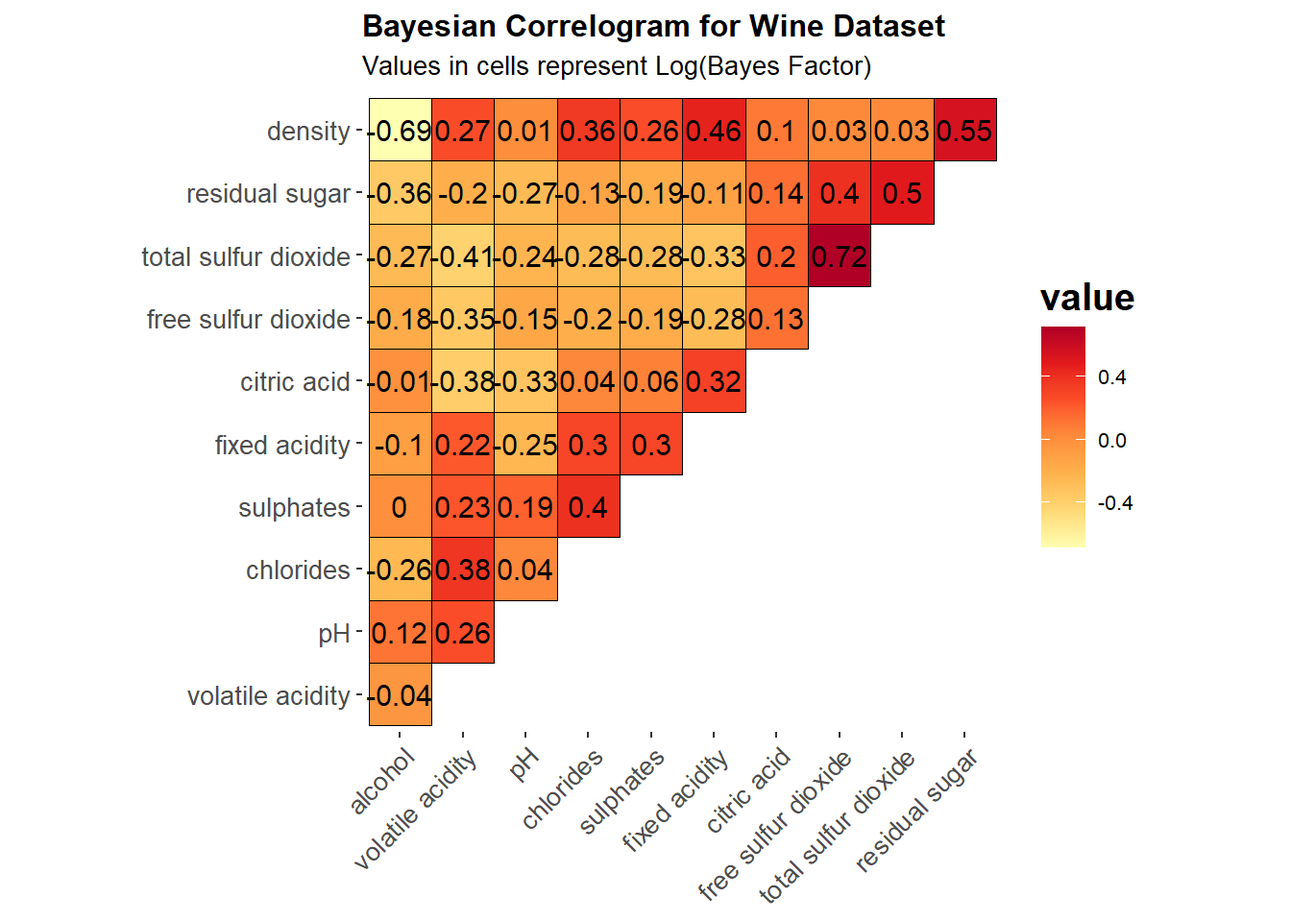
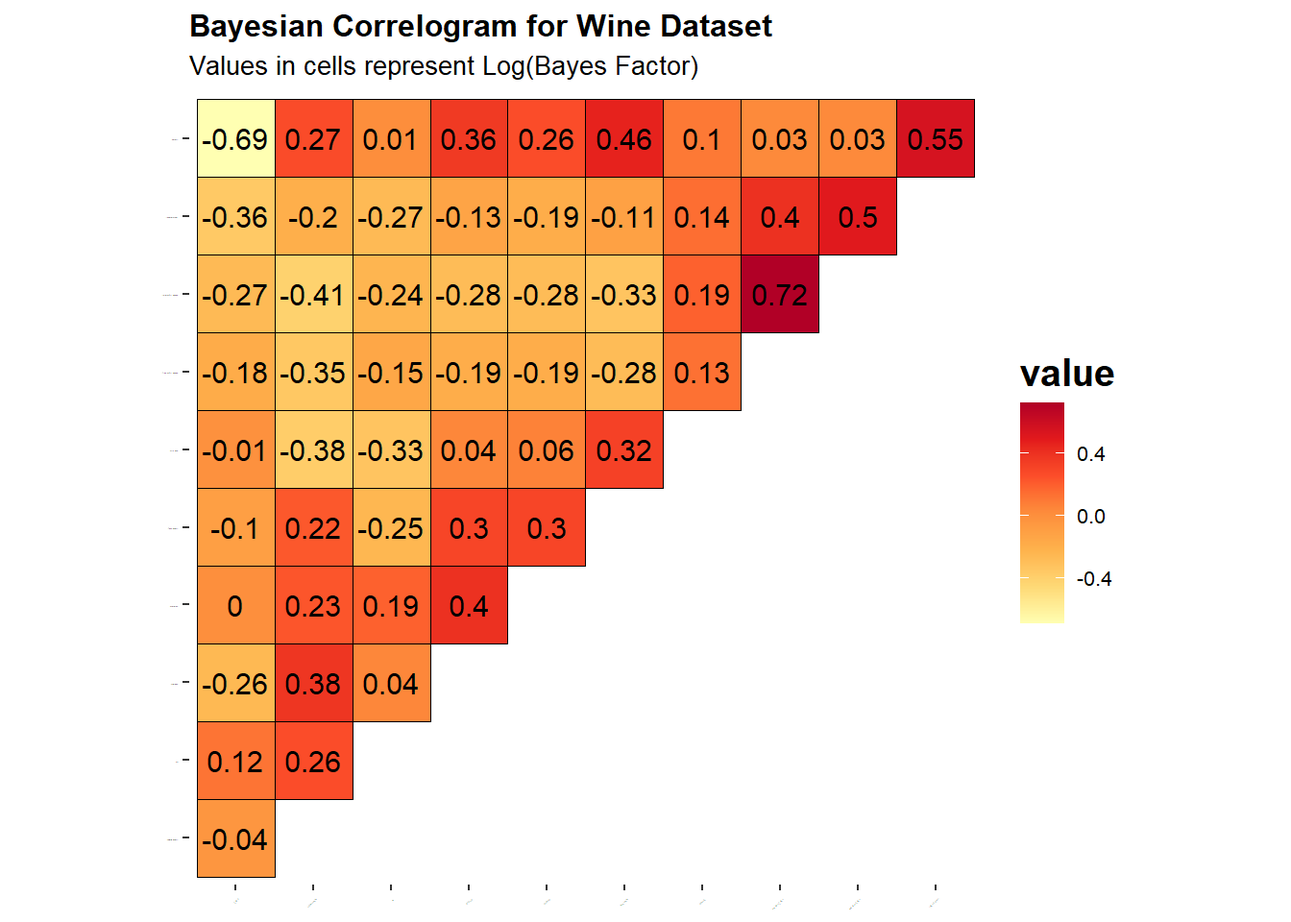
5B

diff --git a/_site/Hands-On_Ex/Hands-on_Ex05/Hands-on_Ex05B.html b/_site/Hands-On_Ex/Hands-on_Ex05/Hands-on_Ex05B.html
@@ -255,6 +255,15 @@ window.Quarto = {
   <li><a href="#including-with-correlation-coefficients" id="toc-including-with-correlation-coefficients" class="nav-link" data-scroll-target="#including-with-correlation-coefficients">Including with correlation coefficients</a></li>
   <li><a href="#visualising-correlation-matrix-ggcormat" id="toc-visualising-correlation-matrix-ggcormat" class="nav-link" data-scroll-target="#visualising-correlation-matrix-ggcormat">Visualising Correlation Matrix: ggcormat()</a></li>
   <li><a href="#the-basic-plot" id="toc-the-basic-plot" class="nav-link" data-scroll-target="#the-basic-plot">The basic plot</a></li>
+  <li><a href="#building-multiple-plots" id="toc-building-multiple-plots" class="nav-link" data-scroll-target="#building-multiple-plots">Building multiple plots</a></li>
+  <li><a href="#visualising-correlation-matrix-using-corrplot-package" id="toc-visualising-correlation-matrix-using-corrplot-package" class="nav-link" data-scroll-target="#visualising-correlation-matrix-using-corrplot-package">Visualising Correlation Matrix using corrplot Package</a></li>
+  <li><a href="#before-we-can-plot-a-corrgram-using-corrplot-we-need-to-compute-the-correlation-matrix-of-wine-data-frame." id="toc-before-we-can-plot-a-corrgram-using-corrplot-we-need-to-compute-the-correlation-matrix-of-wine-data-frame." class="nav-link" data-scroll-target="#before-we-can-plot-a-corrgram-using-corrplot-we-need-to-compute-the-correlation-matrix-of-wine-data-frame.">Before we can plot a corrgram using corrplot(), we need to compute the correlation matrix of wine data frame.</a></li>
+  <li><a href="#working-with-visual-geometrics" id="toc-working-with-visual-geometrics" class="nav-link" data-scroll-target="#working-with-visual-geometrics">Working with visual geometrics</a></li>
+  <li><a href="#working-with-layout" id="toc-working-with-layout" class="nav-link" data-scroll-target="#working-with-layout">Working with layout</a></li>
+  <li><a href="#working-with-mixed-layout" id="toc-working-with-mixed-layout" class="nav-link" data-scroll-target="#working-with-mixed-layout">Working with mixed layout</a></li>
+  <li><a href="#combining-corrgram-with-the-significant-test" id="toc-combining-corrgram-with-the-significant-test" class="nav-link" data-scroll-target="#combining-corrgram-with-the-significant-test">Combining corrgram with the significant test</a></li>
+  <li><a href="#reorder-a-corrgram" id="toc-reorder-a-corrgram" class="nav-link" data-scroll-target="#reorder-a-corrgram">Reorder a corrgram</a></li>
+  <li><a href="#reordering-a-correlation-matrix-using-hclust" id="toc-reordering-a-correlation-matrix-using-hclust" class="nav-link" data-scroll-target="#reordering-a-correlation-matrix-using-hclust">Reordering a correlation matrix using hclust</a></li>
   </ul></li>
   </ul>
 </nav>
@@ -461,7 +470,7 @@ Tip
 <span id="cb10-3"><a href="#cb10-3" aria-hidden="true" tabindex="-1"></a>  <span class="at">cor.vars =</span> <span class="dv">1</span><span class="sc">:</span><span class="dv">11</span>,</span>
 <span id="cb10-4"><a href="#cb10-4" aria-hidden="true" tabindex="-1"></a>  <span class="at">ggcorrplot.args =</span> <span class="fu">list</span>(<span class="at">outline.color =</span> <span class="st">"black"</span>, </span>
 <span id="cb10-5"><a href="#cb10-5" aria-hidden="true" tabindex="-1"></a>                         <span class="at">hc.order =</span> <span class="cn">TRUE</span>,</span>
-<span id="cb10-6"><a href="#cb10-6" aria-hidden="true" tabindex="-1"></a>                         <span class="at">tl.cex =</span> <span class="dv">10</span>),</span>
+<span id="cb10-6"><a href="#cb10-6" aria-hidden="true" tabindex="-1"></a>                         <span class="at">tl.cex =</span> <span class="fl">0.7</span>),</span>
 <span id="cb10-7"><a href="#cb10-7" aria-hidden="true" tabindex="-1"></a>  <span class="at">title    =</span> <span class="st">"Correlogram for wine dataset"</span>,</span>
 <span id="cb10-8"><a href="#cb10-8" aria-hidden="true" tabindex="-1"></a>  <span class="at">subtitle =</span> <span class="st">"Four pairs are not significant at p &lt; 0.05"</span></span>
 <span id="cb10-9"><a href="#cb10-9" aria-hidden="true" tabindex="-1"></a>)</span></code></pre></div><button title="Copy to Clipboard" class="code-copy-button"><i class="bi"></i></button></div>
@@ -490,8 +499,12 @@ Note
 </div>
 </div>
 <div class="callout-body-container callout-body">
-<p>hc.order = True refers to using hierarchical clustering to put similar variables together while tl.cex = 10: Adjusts the text label size for the variable names so they are readable even if the matrix is large.</p>
-<p>The current default uses p value, a bayesian approach can also be used by changing type = ‘bayes’</p>
+<ul>
+<li><p>hc.order = True refers to using hierarchical clustering to put similar variables together while tl.cex = 10: Adjusts the text label size for the variable names so they are readable even if the matrix is large.</p></li>
+<li><p>The current default uses p value, a bayesian approach can also be used by changing type = ‘bayes’</p></li>
+</ul>
+</div>
+</div>
 <div class="cell">
 <div class="code-copy-outer-scaffold"><div class="sourceCode cell-code" id="cb11"><pre class="sourceCode r code-with-copy"><code class="sourceCode r"><span id="cb11-1"><a href="#cb11-1" aria-hidden="true" tabindex="-1"></a><span class="co">#Changing the color to better show that this is different from the above plots</span></span>
 <span id="cb11-2"><a href="#cb11-2" aria-hidden="true" tabindex="-1"></a></span>
@@ -501,7 +514,7 @@ Note
 <span id="cb11-6"><a href="#cb11-6" aria-hidden="true" tabindex="-1"></a>  <span class="at">type =</span> <span class="st">"bayes"</span>,</span>
 <span id="cb11-7"><a href="#cb11-7" aria-hidden="true" tabindex="-1"></a>  <span class="at">ggcorrplot.args =</span> <span class="fu">list</span>(<span class="at">outline.color =</span> <span class="st">"black"</span>, </span>
 <span id="cb11-8"><a href="#cb11-8" aria-hidden="true" tabindex="-1"></a>                         <span class="at">hc.order =</span> <span class="cn">TRUE</span>,</span>
-<span id="cb11-9"><a href="#cb11-9" aria-hidden="true" tabindex="-1"></a>                         <span class="at">tl.cex =</span> <span class="dv">10</span>),</span>
+<span id="cb11-9"><a href="#cb11-9" aria-hidden="true" tabindex="-1"></a>                         <span class="at">tl.cex =</span> <span class="fl">0.7</span>),</span>
 <span id="cb11-10"><a href="#cb11-10" aria-hidden="true" tabindex="-1"></a>  <span class="at">title    =</span> <span class="st">"Bayesian Correlogram for Wine Dataset"</span>,</span>
 <span id="cb11-11"><a href="#cb11-11" aria-hidden="true" tabindex="-1"></a>  <span class="at">subtitle =</span> <span class="st">"Values in cells represent Log(Bayes Factor)"</span></span>
 <span id="cb11-12"><a href="#cb11-12" aria-hidden="true" tabindex="-1"></a>) <span class="sc">+</span> <span class="fu">scale_fill_distiller</span>(<span class="at">palette =</span> <span class="st">"YlOrRd"</span>, <span class="at">direction =</span> <span class="dv">1</span>)</span></code></pre></div><button title="Copy to Clipboard" class="code-copy-button"><i class="bi"></i></button></div>
@@ -513,44 +526,36 @@ Note
 </div>
 </div>
 </div>
-<div class="callout callout-style-default callout-note callout-titled">
-<div class="callout-header d-flex align-content-center">
-<div class="callout-icon-container">
-<i class="callout-icon"></i>
-</div>
-<div class="callout-title-container flex-fill">
-Note
-</div>
-</div>
-<div class="callout-body-container callout-body">
 <p>After switching from frequentist to bayes, none of the plot was crossed out.</p>
 <p>A quick search: While the frequentist approach suggests four pairs are non-significant, the Bayesian approach reveals that these relationships are ‘anecdotal’ (<span class="math inline">\(1 &lt; BF_{10} &lt; 3\)</span>) rather than definitively absent, providing a more nuanced view of the chemical interactions in the wine</p>
 <p>Some examples of interpretation</p>
 <p><span class="math inline">\(log_e(BF_{10})\)</span>: This is the “Log-Bayes Factor.” We use logs because Bayes Factors can become massive (e.g., 1,000,000).Positive number (e.g., 5): Strong evidence for a relationship.Negative number (e.g., -2): Evidence against a relationship (supports the null).Near 0: The data is “inconclusive” or “anecdotal.”</p>
 <p><span class="math inline">\(BF_{10} = 10\)</span>: The data is 10 times more likely under the “Relationship” model than the “No Relationship” model.</p>
-</div>
-</div>
+</section>
 <section id="building-multiple-plots" class="level2">
 <h2 class="anchored" data-anchor-id="building-multiple-plots">Building multiple plots</h2>
 <p>Since ggstasplot is an extension of ggplot2, it also supports faceting. However the feature is not available in ggcorrmat() but in the <a href="https://www.indrapatil.com/ggstatsplot/reference/grouped_ggcorrmat.html">grouped_ggcorrmat()</a> of ggstatsplot.</p>
 <div class="cell">
-<div class="code-copy-outer-scaffold"><div class="sourceCode cell-code" id="cb12"><pre class="sourceCode r code-with-copy"><code class="sourceCode r"><span id="cb12-1"><a href="#cb12-1" aria-hidden="true" tabindex="-1"></a><span class="fu">grouped_ggcorrmat</span>(</span>
-<span id="cb12-2"><a href="#cb12-2" aria-hidden="true" tabindex="-1"></a>  <span class="at">data =</span> wine,</span>
-<span id="cb12-3"><a href="#cb12-3" aria-hidden="true" tabindex="-1"></a>  <span class="at">cor.vars =</span> <span class="dv">1</span><span class="sc">:</span><span class="dv">11</span>,</span>
-<span id="cb12-4"><a href="#cb12-4" aria-hidden="true" tabindex="-1"></a>  <span class="at">grouping.var =</span> type,</span>
-<span id="cb12-5"><a href="#cb12-5" aria-hidden="true" tabindex="-1"></a>  <span class="at">type =</span> <span class="st">"robust"</span>,</span>
-<span id="cb12-6"><a href="#cb12-6" aria-hidden="true" tabindex="-1"></a>  <span class="at">p.adjust.method =</span> <span class="st">"holm"</span>,</span>
-<span id="cb12-7"><a href="#cb12-7" aria-hidden="true" tabindex="-1"></a>  <span class="at">plotgrid.args =</span> <span class="fu">list</span>(<span class="at">ncol =</span> <span class="dv">2</span>),</span>
-<span id="cb12-8"><a href="#cb12-8" aria-hidden="true" tabindex="-1"></a>  <span class="at">ggcorrplot.args =</span> <span class="fu">list</span>(<span class="at">outline.color =</span> <span class="st">"black"</span>, </span>
-<span id="cb12-9"><a href="#cb12-9" aria-hidden="true" tabindex="-1"></a>                         <span class="at">hc.order =</span> <span class="cn">TRUE</span>,</span>
-<span id="cb12-10"><a href="#cb12-10" aria-hidden="true" tabindex="-1"></a>                         <span class="at">tl.cex =</span> <span class="fl">0.7</span>),</span>
-<span id="cb12-11"><a href="#cb12-11" aria-hidden="true" tabindex="-1"></a>  <span class="at">annotation.args =</span> <span class="fu">list</span>(</span>
-<span id="cb12-12"><a href="#cb12-12" aria-hidden="true" tabindex="-1"></a>    <span class="at">tag_levels =</span> <span class="st">"a"</span>,</span>
-<span id="cb12-13"><a href="#cb12-13" aria-hidden="true" tabindex="-1"></a>    <span class="at">title =</span> <span class="st">"Correlogram for wine dataset"</span>,</span>
-<span id="cb12-14"><a href="#cb12-14" aria-hidden="true" tabindex="-1"></a>    <span class="at">subtitle =</span> <span class="st">"The measures are: alcohol, sulphates, fixed acidity, citric acid, chlorides, residual sugar, density, free sulfur dioxide and volatile acidity"</span>,</span>
-<span id="cb12-15"><a href="#cb12-15" aria-hidden="true" tabindex="-1"></a>    <span class="at">caption =</span> <span class="st">"Dataset: UCI Machine Learning Repository"</span></span>
-<span id="cb12-16"><a href="#cb12-16" aria-hidden="true" tabindex="-1"></a>  )</span>
-<span id="cb12-17"><a href="#cb12-17" aria-hidden="true" tabindex="-1"></a>)</span></code></pre></div><button title="Copy to Clipboard" class="code-copy-button"><i class="bi"></i></button></div>
+<div class="code-copy-outer-scaffold"><div class="sourceCode cell-code" id="cb12"><pre class="sourceCode r code-with-copy"><code class="sourceCode r"><span id="cb12-1"><a href="#cb12-1" aria-hidden="true" tabindex="-1"></a><span class="co">#| fig-width: 12</span></span>
+<span id="cb12-2"><a href="#cb12-2" aria-hidden="true" tabindex="-1"></a><span class="co">#| fig-height: 16</span></span>
+<span id="cb12-3"><a href="#cb12-3" aria-hidden="true" tabindex="-1"></a><span class="co">#| out-width: "100%"</span></span>
+<span id="cb12-4"><a href="#cb12-4" aria-hidden="true" tabindex="-1"></a><span class="fu">grouped_ggcorrmat</span>(</span>
+<span id="cb12-5"><a href="#cb12-5" aria-hidden="true" tabindex="-1"></a>  <span class="at">data =</span> wine,</span>
+<span id="cb12-6"><a href="#cb12-6" aria-hidden="true" tabindex="-1"></a>  <span class="at">cor.vars =</span> <span class="dv">1</span><span class="sc">:</span><span class="dv">11</span>,</span>
+<span id="cb12-7"><a href="#cb12-7" aria-hidden="true" tabindex="-1"></a>  <span class="at">grouping.var =</span> type,</span>
+<span id="cb12-8"><a href="#cb12-8" aria-hidden="true" tabindex="-1"></a>  <span class="at">type =</span> <span class="st">"robust"</span>,</span>
+<span id="cb12-9"><a href="#cb12-9" aria-hidden="true" tabindex="-1"></a>  <span class="at">p.adjust.method =</span> <span class="st">"holm"</span>,</span>
+<span id="cb12-10"><a href="#cb12-10" aria-hidden="true" tabindex="-1"></a>  <span class="at">plotgrid.args =</span> <span class="fu">list</span>(<span class="at">ncol =</span> <span class="dv">2</span>),</span>
+<span id="cb12-11"><a href="#cb12-11" aria-hidden="true" tabindex="-1"></a>  <span class="at">ggcorrplot.args =</span> <span class="fu">list</span>(<span class="at">outline.color =</span> <span class="st">"black"</span>, </span>
+<span id="cb12-12"><a href="#cb12-12" aria-hidden="true" tabindex="-1"></a>                         <span class="at">hc.order =</span> <span class="cn">TRUE</span>,</span>
+<span id="cb12-13"><a href="#cb12-13" aria-hidden="true" tabindex="-1"></a>                         <span class="at">tl.cex =</span> <span class="fl">0.7</span>),</span>
+<span id="cb12-14"><a href="#cb12-14" aria-hidden="true" tabindex="-1"></a>  <span class="at">annotation.args =</span> <span class="fu">list</span>(</span>
+<span id="cb12-15"><a href="#cb12-15" aria-hidden="true" tabindex="-1"></a>    <span class="at">tag_levels =</span> <span class="st">"a"</span>,</span>
+<span id="cb12-16"><a href="#cb12-16" aria-hidden="true" tabindex="-1"></a>    <span class="at">title =</span> <span class="st">"Correlogram for wine dataset"</span>,</span>
+<span id="cb12-17"><a href="#cb12-17" aria-hidden="true" tabindex="-1"></a>    <span class="at">subtitle =</span> <span class="st">"The measures are: alcohol, sulphates, fixed acidity, citric acid, chlorides, residual sugar, density, free sulfur dioxide and volatile acidity"</span>,</span>
+<span id="cb12-18"><a href="#cb12-18" aria-hidden="true" tabindex="-1"></a>    <span class="at">caption =</span> <span class="st">"Dataset: UCI Machine Learning Repository"</span></span>
+<span id="cb12-19"><a href="#cb12-19" aria-hidden="true" tabindex="-1"></a>  )</span>
+<span id="cb12-20"><a href="#cb12-20" aria-hidden="true" tabindex="-1"></a>)</span></code></pre></div><button title="Copy to Clipboard" class="code-copy-button"><i class="bi"></i></button></div>
 <div class="cell-output-display">
 <div>
 <figure class="figure">
@@ -559,11 +564,236 @@ Note
 </div>
 </div>
 </div>
-
-
+<p>Things to learn from the code chunk above:</p>
+<ul>
+<li>to build a facet plot, the only argument needed is grouping.var.</li>
+<li>Behind group_ggcorrmat(), patchwork package is used to create the multiplot. plotgrid.args argument provides a list of additional arguments passed to patchwork::wrap_plots, except for guides argument which is already separately specified earlier.</li>
+<li>Likewise, annotation.args argument is calling plot annotation arguments of patchwork package.</li>
+</ul>
+</section>
+<section id="visualising-correlation-matrix-using-corrplot-package" class="level2">
+<h2 class="anchored" data-anchor-id="visualising-correlation-matrix-using-corrplot-package">Visualising Correlation Matrix using corrplot Package</h2>
+<p>Here is an introduction to An Introduction to <a href="https://cran.r-project.org/web/packages/corrplot/vignettes/corrplot-intro.html">corrplot Package</a></p>
+<p>This package is amazing !</p>
+<div class="callout callout-style-default callout-tip callout-titled">
+<div class="callout-header d-flex align-content-center">
+<div class="callout-icon-container">
+<i class="callout-icon"></i>
+</div>
+<div class="callout-title-container flex-fill">
+Tip
+</div>
+</div>
+<div class="callout-body-container callout-body">
+<p>Did you know <a href="https://pypi.org/project/ggcorrplot/#doc">corrplot</a> is also available in python. Kudos to the team for exporting this amazing package to python too But its still lacks the flexibility that is available in R.</p>
+<p>Incidentally found the link to <a href="https://altair-viz.github.io/gallery/isotype_emoji.html">Altair</a>. I just need to find the equivalent for R for this !</p>
+</div>
+</div>
+</section>
+<section id="before-we-can-plot-a-corrgram-using-corrplot-we-need-to-compute-the-correlation-matrix-of-wine-data-frame." class="level2">
+<h2 class="anchored" data-anchor-id="before-we-can-plot-a-corrgram-using-corrplot-we-need-to-compute-the-correlation-matrix-of-wine-data-frame.">Before we can plot a corrgram using corrplot(), we need to compute the correlation matrix of wine data frame.</h2>
+<p>In the code chunk below, cor() of R Stats is used to compute the correlation matrix of wine data frame.</p>
+<div class="cell">
+<div class="code-copy-outer-scaffold"><div class="sourceCode cell-code" id="cb13"><pre class="sourceCode r code-with-copy"><code class="sourceCode r"><span id="cb13-1"><a href="#cb13-1" aria-hidden="true" tabindex="-1"></a>wine.cor <span class="ot">&lt;-</span> <span class="fu">cor</span>(wine[, <span class="dv">1</span><span class="sc">:</span><span class="dv">11</span>])</span>
+<span id="cb13-2"><a href="#cb13-2" aria-hidden="true" tabindex="-1"></a><span class="fu">corrplot</span>(wine.cor)</span></code></pre></div><button title="Copy to Clipboard" class="code-copy-button"><i class="bi"></i></button></div>
+<div class="cell-output-display">
+<div>
+<figure class="figure">
+<p><img src="Hands-on_Ex05B_files/figure-html/unnamed-chunk-12-1.png" class="img-fluid figure-img" width="672"></p>
+</figure>
+</div>
+</div>
+</div>
+<p>Notice that the default visual object used to plot the corrgram is circle. The default layout of the corrgram is a symmetric matrix. The default colour scheme is diverging blue-red. Blue colours are used to represent pair variables with positive correlation coefficients and red colours are used to represent pair variables with negative correlation coefficients. The intensity of the colour or also know as saturation is used to represent the strength of the correlation coefficient. Darker colours indicate relatively stronger linear relationship between the paired variables. On the other hand, lighter colours indicates relatively weaker linear relationship.</p>
+</section>
+<section id="working-with-visual-geometrics" class="level2">
+<h2 class="anchored" data-anchor-id="working-with-visual-geometrics">Working with visual geometrics</h2>
+<p>In corrplot package, there are seven visual geometrics (parameter method) can be used to encode the attribute values. They are: circle, square, ellipse, number, shade, color and pie. The default is circle. As shown in the previous section, the default visual geometric of corrplot matrix is circle. However, this default setting can be changed by using the method argument as shown in the code chunk below</p>
+<div class="tabset-margin-container"></div><div class="panel-tabset">
+<ul class="nav nav-tabs" role="tablist"><li class="nav-item" role="presentation"><a class="nav-link active" id="tabset-1-1-tab" data-bs-toggle="tab" data-bs-target="#tabset-1-1" role="tab" aria-controls="tabset-1-1" aria-selected="true" href="">ellipse</a></li><li class="nav-item" role="presentation"><a class="nav-link" id="tabset-1-2-tab" data-bs-toggle="tab" data-bs-target="#tabset-1-2" role="tab" aria-controls="tabset-1-2" aria-selected="false" href="">hclust</a></li><li class="nav-item" role="presentation"><a class="nav-link" id="tabset-1-3-tab" data-bs-toggle="tab" data-bs-target="#tabset-1-3" role="tab" aria-controls="tabset-1-3" aria-selected="false" href="">hist mixed</a></li></ul>
+<div class="tab-content">
+<div id="tabset-1-1" class="tab-pane active" role="tabpanel" aria-labelledby="tabset-1-1-tab">
+<div class="cell">
+<div class="code-copy-outer-scaffold"><div class="sourceCode cell-code" id="cb14"><pre class="sourceCode r code-with-copy"><code class="sourceCode r"><span id="cb14-1"><a href="#cb14-1" aria-hidden="true" tabindex="-1"></a><span class="fu">corrplot</span>(wine.cor, </span>
+<span id="cb14-2"><a href="#cb14-2" aria-hidden="true" tabindex="-1"></a>         <span class="at">method =</span> <span class="st">"ellipse"</span>) </span></code></pre></div><button title="Copy to Clipboard" class="code-copy-button"><i class="bi"></i></button></div>
+<div class="cell-output-display">
+<div>
+<figure class="figure">
+<p><img src="Hands-on_Ex05B_files/figure-html/unnamed-chunk-13-1.png" class="img-fluid figure-img" width="672"></p>
+</figure>
+</div>
+</div>
+</div>
+<section id="square" class="level3">
+<h3 class="anchored" data-anchor-id="square">square</h3>
+<div class="cell">
+<div class="code-copy-outer-scaffold"><div class="sourceCode cell-code" id="cb15"><pre class="sourceCode r code-with-copy"><code class="sourceCode r"><span id="cb15-1"><a href="#cb15-1" aria-hidden="true" tabindex="-1"></a><span class="fu">corrplot</span>(wine.cor, </span>
+<span id="cb15-2"><a href="#cb15-2" aria-hidden="true" tabindex="-1"></a>         <span class="at">method =</span> <span class="st">"square"</span>) </span></code></pre></div><button title="Copy to Clipboard" class="code-copy-button"><i class="bi"></i></button></div>
+<div class="cell-output-display">
+<div>
+<figure class="figure">
+<p><img src="Hands-on_Ex05B_files/figure-html/unnamed-chunk-14-1.png" class="img-fluid figure-img" width="672"></p>
+</figure>
+</div>
+</div>
+</div>
 </section>
 </div>
+<div id="tabset-1-2" class="tab-pane" role="tabpanel" aria-labelledby="tabset-1-2-tab">
+<div class="cell">
+<div class="code-copy-outer-scaffold"><div class="sourceCode cell-code" id="cb16"><pre class="sourceCode r code-with-copy"><code class="sourceCode r"><span id="cb16-1"><a href="#cb16-1" aria-hidden="true" tabindex="-1"></a><span class="do">## If using 'hclust', corrplot() can draw rectangles around the plot of correlation matrix based on the results of hierarchical clustering.</span></span>
+<span id="cb16-2"><a href="#cb16-2" aria-hidden="true" tabindex="-1"></a><span class="do">## FIX: Use corrplot() function, not the variable name</span></span>
+<span id="cb16-3"><a href="#cb16-3" aria-hidden="true" tabindex="-1"></a><span class="fu">corrplot</span>(wine.cor, <span class="at">order =</span> <span class="st">'hclust'</span>, <span class="at">addrect =</span> <span class="dv">2</span>)</span></code></pre></div><button title="Copy to Clipboard" class="code-copy-button"><i class="bi"></i></button></div>
+<div class="cell-output-display">
+<div>
+<figure class="figure">
+<p><img src="Hands-on_Ex05B_files/figure-html/unnamed-chunk-15-1.png" class="img-fluid figure-img" width="672"></p>
+</figure>
 </div>
+</div>
+</div>
+</div>
+<div id="tabset-1-3" class="tab-pane" role="tabpanel" aria-labelledby="tabset-1-3-tab">
+<div class="cell">
+<div class="code-copy-outer-scaffold"><div class="sourceCode cell-code" id="cb17"><pre class="sourceCode r code-with-copy"><code class="sourceCode r"><span id="cb17-1"><a href="#cb17-1" aria-hidden="true" tabindex="-1"></a><span class="co"># 3. Create the Mixed Correlogram</span></span>
+<span id="cb17-2"><a href="#cb17-2" aria-hidden="true" tabindex="-1"></a><span class="fu">corrplot.mixed</span>(wine.cor, </span>
+<span id="cb17-3"><a href="#cb17-3" aria-hidden="true" tabindex="-1"></a>               <span class="at">lower =</span> <span class="st">'shade'</span>, </span>
+<span id="cb17-4"><a href="#cb17-4" aria-hidden="true" tabindex="-1"></a>               <span class="at">upper =</span> <span class="st">'pie'</span>, </span>
+<span id="cb17-5"><a href="#cb17-5" aria-hidden="true" tabindex="-1"></a>               <span class="at">order =</span> <span class="st">'hclust'</span>,</span>
+<span id="cb17-6"><a href="#cb17-6" aria-hidden="true" tabindex="-1"></a>               <span class="at">tl.col =</span> <span class="st">"black"</span>, </span>
+<span id="cb17-7"><a href="#cb17-7" aria-hidden="true" tabindex="-1"></a>               <span class="at">tl.cex =</span> <span class="fl">0.7</span>,</span>
+<span id="cb17-8"><a href="#cb17-8" aria-hidden="true" tabindex="-1"></a>               <span class="at">addrect =</span> <span class="dv">3</span>)     <span class="co"># Optional: Draws boxes around hclust groups</span></span></code></pre></div><button title="Copy to Clipboard" class="code-copy-button"><i class="bi"></i></button></div>
+<div class="cell-output-display">
+<div>
+<figure class="figure">
+<p><img src="Hands-on_Ex05B_files/figure-html/unnamed-chunk-16-1.png" class="img-fluid figure-img" width="672"></p>
+</figure>
+</div>
+</div>
+</div>
+</div>
+</div>
+</div>
+</section>
+<section id="working-with-layout" class="level2">
+<h2 class="anchored" data-anchor-id="working-with-layout">Working with layout</h2>
+<div class="cell">
+<div class="code-copy-outer-scaffold"><div class="sourceCode cell-code" id="cb18"><pre class="sourceCode r code-with-copy"><code class="sourceCode r"><span id="cb18-1"><a href="#cb18-1" aria-hidden="true" tabindex="-1"></a><span class="fu">corrplot</span>(wine.cor, </span>
+<span id="cb18-2"><a href="#cb18-2" aria-hidden="true" tabindex="-1"></a>         <span class="at">method =</span> <span class="st">"ellipse"</span>, </span>
+<span id="cb18-3"><a href="#cb18-3" aria-hidden="true" tabindex="-1"></a>         <span class="at">type=</span><span class="st">"lower"</span>)</span></code></pre></div><button title="Copy to Clipboard" class="code-copy-button"><i class="bi"></i></button></div>
+<div class="cell-output-display">
+<div>
+<figure class="figure">
+<p><img src="Hands-on_Ex05B_files/figure-html/unnamed-chunk-17-1.png" class="img-fluid figure-img" width="672"></p>
+</figure>
+</div>
+</div>
+</div>
+<p>The default layout of the corrgram can be further customised. For example, arguments diag and tl.col are used to turn off the diagonal cells and to change the axis text label colour to black colour respectively as shown in the code chunk and figure below</p>
+<div class="cell">
+<div class="code-copy-outer-scaffold"><div class="sourceCode cell-code" id="cb19"><pre class="sourceCode r code-with-copy"><code class="sourceCode r"><span id="cb19-1"><a href="#cb19-1" aria-hidden="true" tabindex="-1"></a><span class="fu">corrplot</span>(wine.cor, </span>
+<span id="cb19-2"><a href="#cb19-2" aria-hidden="true" tabindex="-1"></a>         <span class="at">method =</span> <span class="st">"ellipse"</span>, </span>
+<span id="cb19-3"><a href="#cb19-3" aria-hidden="true" tabindex="-1"></a>         <span class="at">type=</span><span class="st">"lower"</span>,</span>
+<span id="cb19-4"><a href="#cb19-4" aria-hidden="true" tabindex="-1"></a>         <span class="at">diag =</span> <span class="cn">FALSE</span>,</span>
+<span id="cb19-5"><a href="#cb19-5" aria-hidden="true" tabindex="-1"></a>         <span class="at">tl.col =</span> <span class="st">"black"</span>)</span></code></pre></div><button title="Copy to Clipboard" class="code-copy-button"><i class="bi"></i></button></div>
+<div class="cell-output-display">
+<div>
+<figure class="figure">
+<p><img src="Hands-on_Ex05B_files/figure-html/unnamed-chunk-18-1.png" class="img-fluid figure-img" width="672"></p>
+</figure>
+</div>
+</div>
+</div>
+</section>
+<section id="working-with-mixed-layout" class="level2">
+<h2 class="anchored" data-anchor-id="working-with-mixed-layout">Working with mixed layout</h2>
+<p>With corrplot package, it is possible to design corrgram with mixed visual matrix of one half and numerical matrix on the other half. In order to create a coorgram with mixed layout, the corrplot.mixed(), a wrapped function for mixed visualisation style will be used.</p>
+<p>Figure below shows a mixed layout corrgram plotted using wine quality data.</p>
+<div class="cell">
+<div class="code-copy-outer-scaffold"><div class="sourceCode cell-code" id="cb20"><pre class="sourceCode r code-with-copy"><code class="sourceCode r"><span id="cb20-1"><a href="#cb20-1" aria-hidden="true" tabindex="-1"></a><span class="fu">corrplot.mixed</span>(wine.cor, </span>
+<span id="cb20-2"><a href="#cb20-2" aria-hidden="true" tabindex="-1"></a>               <span class="at">lower =</span> <span class="st">"ellipse"</span>, </span>
+<span id="cb20-3"><a href="#cb20-3" aria-hidden="true" tabindex="-1"></a>               <span class="at">upper =</span> <span class="st">"number"</span>,</span>
+<span id="cb20-4"><a href="#cb20-4" aria-hidden="true" tabindex="-1"></a>               <span class="at">tl.pos =</span> <span class="st">"lt"</span>,</span>
+<span id="cb20-5"><a href="#cb20-5" aria-hidden="true" tabindex="-1"></a>               <span class="at">diag =</span> <span class="st">"l"</span>,</span>
+<span id="cb20-6"><a href="#cb20-6" aria-hidden="true" tabindex="-1"></a>               <span class="at">tl.col =</span> <span class="st">"black"</span>)</span></code></pre></div><button title="Copy to Clipboard" class="code-copy-button"><i class="bi"></i></button></div>
+<div class="cell-output-display">
+<div>
+<figure class="figure">
+<p><img src="Hands-on_Ex05B_files/figure-html/unnamed-chunk-19-1.png" class="img-fluid figure-img" width="672"></p>
+</figure>
+</div>
+</div>
+</div>
+<p>Notice that argument lower and upper are used to define the visualisation method used. In this case ellipse is used to map the lower half of the corrgram and numerical matrix (i.e.&nbsp;number) is used to map the upper half of the corrgram. The argument tl.pos, on the other, is used to specify the placement of the axis label. Lastly, the diag argument is used to specify the glyph on the principal diagonal of the corrgram.</p>
+</section>
+<section id="combining-corrgram-with-the-significant-test" class="level2">
+<h2 class="anchored" data-anchor-id="combining-corrgram-with-the-significant-test">Combining corrgram with the significant test</h2>
+<p>In statistical analysis, we are also interested to know which pair of variables their correlation coefficients are statistically significant.</p>
+<p>Figure below shows a corrgram combined with the significant test. The corrgram reveals that not all correlation pairs are statistically significant. For example the correlation between total sulfur dioxide and free surfur dioxide is statistically significant at significant level of 0.1 but not the pair between total sulfur dioxide and citric acid.</p>
+<p>With corrplot package, we can use the cor.mtest() to compute the p-values and confidence interval for each pair of variables.</p>
+<div class="cell">
+<div class="code-copy-outer-scaffold"><div class="sourceCode cell-code" id="cb21"><pre class="sourceCode r code-with-copy"><code class="sourceCode r"><span id="cb21-1"><a href="#cb21-1" aria-hidden="true" tabindex="-1"></a>wine.sig <span class="ot">=</span> <span class="fu">cor.mtest</span>(wine[, <span class="dv">1</span><span class="sc">:</span><span class="dv">11</span>], <span class="at">conf.level =</span> .<span class="dv">95</span>)</span></code></pre></div><button title="Copy to Clipboard" class="code-copy-button"><i class="bi"></i></button></div>
+</div>
+<p>We can then use the p.mat argument of corrplot function as shown in the code chunk below.</p>
+<div class="cell">
+<div class="code-copy-outer-scaffold"><div class="sourceCode cell-code" id="cb22"><pre class="sourceCode r code-with-copy"><code class="sourceCode r"><span id="cb22-1"><a href="#cb22-1" aria-hidden="true" tabindex="-1"></a><span class="fu">corrplot</span>(wine.cor,</span>
+<span id="cb22-2"><a href="#cb22-2" aria-hidden="true" tabindex="-1"></a>         <span class="at">method =</span> <span class="st">"number"</span>,</span>
+<span id="cb22-3"><a href="#cb22-3" aria-hidden="true" tabindex="-1"></a>         <span class="at">type =</span> <span class="st">"lower"</span>,</span>
+<span id="cb22-4"><a href="#cb22-4" aria-hidden="true" tabindex="-1"></a>         <span class="at">diag =</span> <span class="cn">FALSE</span>,</span>
+<span id="cb22-5"><a href="#cb22-5" aria-hidden="true" tabindex="-1"></a>         <span class="at">tl.col =</span> <span class="st">"black"</span>,</span>
+<span id="cb22-6"><a href="#cb22-6" aria-hidden="true" tabindex="-1"></a>         <span class="at">tl.srt =</span> <span class="dv">45</span>,</span>
+<span id="cb22-7"><a href="#cb22-7" aria-hidden="true" tabindex="-1"></a>         <span class="at">p.mat =</span> wine.sig<span class="sc">$</span>p,</span>
+<span id="cb22-8"><a href="#cb22-8" aria-hidden="true" tabindex="-1"></a>         <span class="at">sig.level =</span> .<span class="dv">05</span>)</span></code></pre></div><button title="Copy to Clipboard" class="code-copy-button"><i class="bi"></i></button></div>
+<div class="cell-output-display">
+<div>
+<figure class="figure">
+<p><img src="Hands-on_Ex05B_files/figure-html/unnamed-chunk-21-1.png" class="img-fluid figure-img" width="672"></p>
+</figure>
+</div>
+</div>
+</div>
+</section>
+<section id="reorder-a-corrgram" class="level2">
+<h2 class="anchored" data-anchor-id="reorder-a-corrgram">Reorder a corrgram</h2>
+<p>Matrix reorder is very important for mining the hiden structure and pattern in a corrgram. By default, the order of attributes of a corrgram is sorted according to the correlation matrix (i.e.&nbsp;“original”). The default setting can be over-write by using the order argument of corrplot(). Currently, corrplot package support four sorting methods, they are:</p>
+<p>“AOE” is for the angular order of the eigenvectors. See Michael Friendly (2002) for details. “FPC” for the first principal component order. “hclust” for hierarchical clustering order, and “hclust.method” for the agglomeration method to be used. “hclust.method” should be one of “ward”, “single”, “complete”, “average”, “mcquitty”, “median” or “centroid”. “alphabet” for alphabetical order. “AOE”, “FPC”, “hclust”, “alphabet”. More algorithms can be found in seriation package.</p>
+<div class="cell">
+<div class="code-copy-outer-scaffold"><div class="sourceCode cell-code" id="cb23"><pre class="sourceCode r code-with-copy"><code class="sourceCode r"><span id="cb23-1"><a href="#cb23-1" aria-hidden="true" tabindex="-1"></a><span class="fu">corrplot.mixed</span>(wine.cor, </span>
+<span id="cb23-2"><a href="#cb23-2" aria-hidden="true" tabindex="-1"></a>               <span class="at">lower =</span> <span class="st">"ellipse"</span>, </span>
+<span id="cb23-3"><a href="#cb23-3" aria-hidden="true" tabindex="-1"></a>               <span class="at">upper =</span> <span class="st">"number"</span>,</span>
+<span id="cb23-4"><a href="#cb23-4" aria-hidden="true" tabindex="-1"></a>               <span class="at">tl.pos =</span> <span class="st">"lt"</span>,</span>
+<span id="cb23-5"><a href="#cb23-5" aria-hidden="true" tabindex="-1"></a>               <span class="at">diag =</span> <span class="st">"l"</span>,</span>
+<span id="cb23-6"><a href="#cb23-6" aria-hidden="true" tabindex="-1"></a>               <span class="at">order=</span><span class="st">"AOE"</span>,</span>
+<span id="cb23-7"><a href="#cb23-7" aria-hidden="true" tabindex="-1"></a>               <span class="at">tl.col =</span> <span class="st">"black"</span>)</span></code></pre></div><button title="Copy to Clipboard" class="code-copy-button"><i class="bi"></i></button></div>
+<div class="cell-output-display">
+<div>
+<figure class="figure">
+<p><img src="Hands-on_Ex05B_files/figure-html/unnamed-chunk-22-1.png" class="img-fluid figure-img" width="672"></p>
+</figure>
+</div>
+</div>
+</div>
+</section>
+<section id="reordering-a-correlation-matrix-using-hclust" class="level2">
+<h2 class="anchored" data-anchor-id="reordering-a-correlation-matrix-using-hclust">Reordering a correlation matrix using hclust</h2>
+<div class="cell">
+<div class="code-copy-outer-scaffold"><div class="sourceCode cell-code" id="cb24"><pre class="sourceCode r code-with-copy"><code class="sourceCode r"><span id="cb24-1"><a href="#cb24-1" aria-hidden="true" tabindex="-1"></a><span class="fu">corrplot</span>(wine.cor, </span>
+<span id="cb24-2"><a href="#cb24-2" aria-hidden="true" tabindex="-1"></a>         <span class="at">method =</span> <span class="st">"ellipse"</span>, </span>
+<span id="cb24-3"><a href="#cb24-3" aria-hidden="true" tabindex="-1"></a>         <span class="at">tl.pos =</span> <span class="st">"lt"</span>,</span>
+<span id="cb24-4"><a href="#cb24-4" aria-hidden="true" tabindex="-1"></a>         <span class="at">tl.col =</span> <span class="st">"black"</span>,</span>
+<span id="cb24-5"><a href="#cb24-5" aria-hidden="true" tabindex="-1"></a>         <span class="at">order=</span><span class="st">"hclust"</span>,</span>
+<span id="cb24-6"><a href="#cb24-6" aria-hidden="true" tabindex="-1"></a>         <span class="at">hclust.method =</span> <span class="st">"ward.D"</span>,</span>
+<span id="cb24-7"><a href="#cb24-7" aria-hidden="true" tabindex="-1"></a>         <span class="at">addrect =</span> <span class="dv">3</span>)</span></code></pre></div><button title="Copy to Clipboard" class="code-copy-button"><i class="bi"></i></button></div>
+<div class="cell-output-display">
+<div>
+<figure class="figure">
+<p><img src="Hands-on_Ex05B_files/figure-html/unnamed-chunk-23-1.png" class="img-fluid figure-img" width="672"></p>
+</figure>
+</div>
+</div>
+</div>
+
+
 </section>
 </section>
 
